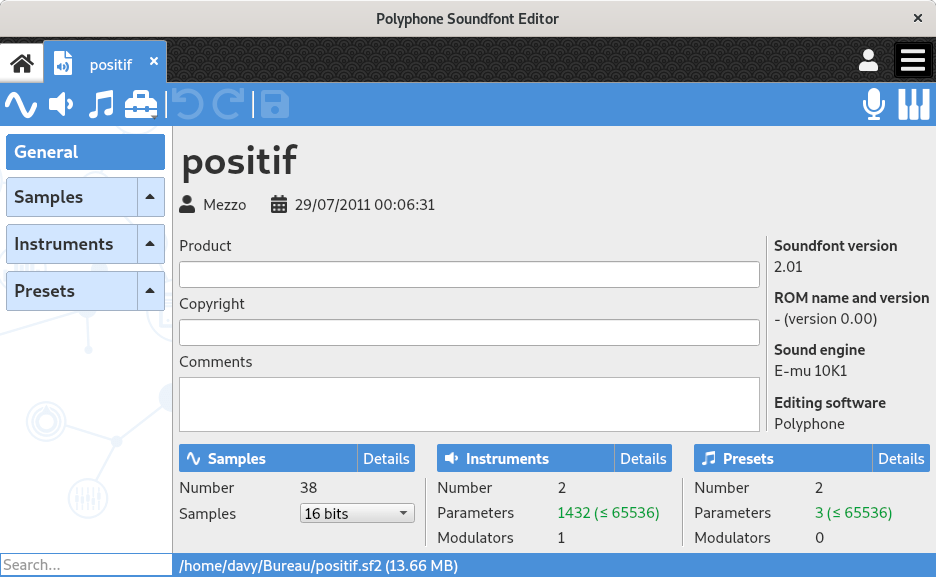
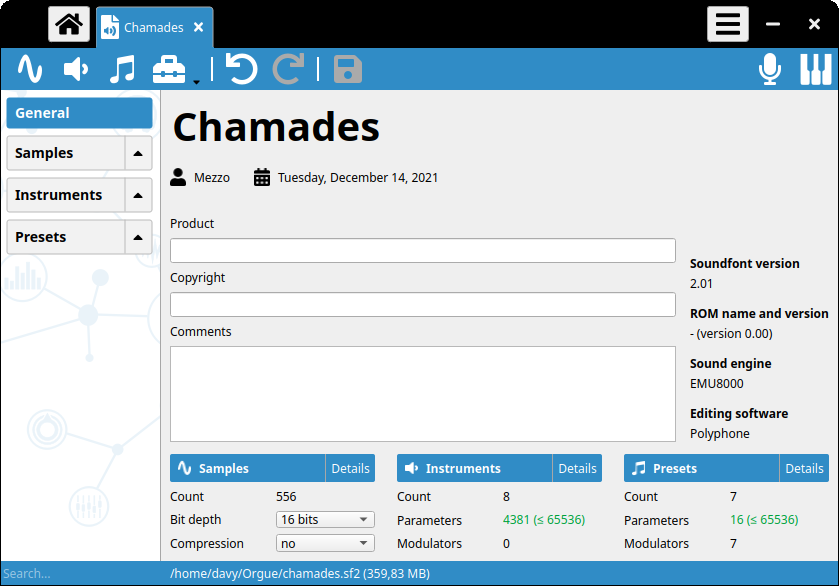
Compression

diff --git a/fr/manual/soundfont-editor/editing-pages/sample-editor.md b/fr/manual/soundfont-editor/editing-pages/sample-editor.md
@@ -61,18 +61,34 @@ Les couleurs du graphique sont éditables dans les [préférences](manual/settin
 ## Section «&nbsp;Information&nbsp;» {#doc_info}
 
 
-La section «&nbsp;Information&nbsp;» permet l'édition des informations suivantes&nbsp;:
+La section :guilabel:Informations` permet la visualisation - et dans la plupart des cas l'édition - des informations suivantes&nbsp;:
 
-* début et fin de la boucle,
-* note de base d'un échantillon et sa correction à appliquer pour que le son soit accordé dans le tempérament égal,
-* fréquence d'échantillonnage du son (une modification déclenchera un ré-échantillonnage),
-* type de son (non lié&nbsp;: mono, sinon gauche, droite ou lié),
-* l'échantillon lié si l'échantillon est stéréo.
+Taille de l'échantillon
+: Le nombre de valeurs et la correspondance en secondes sont affichés.
 
-Par ailleurs, la taille de l'échantillon en nombre de valeurs et en secondes est affiché.
+Boucle
+: Le début et la fin de la boucle peuvent être modifiés ici.
+  Un bouton édite les positions de début et de fin de manière à ce que la boucle représente l'échantillon entier.
 
-Un bouton édite les positions de début et de fin de la boucle de manière à ce que la boucle représente l'échantillon entier.
-Un autre bouton édite la note de base et la correction de sorte que les valeurs concordent avec l'estimation de la [fréquence](#doc_freq).
+Accordage
+: Possibilité d'ajuster la note de base d'un échantillon et sa correction en centièmes de demi-ton pour que le son soit accordé dans le tempérament égal.
+  Un bouton édite la note de base et la correction de sorte que les valeurs concordent avec l'estimation de la [fréquence](#doc_freq).
+
+Fréquence d'échantillonnage du son
+: Chaque modification déclenchera un ré-échantillonnage de manière à ce que la hauteur du son ne soit pas altérée.
+
+Type de son
+: Choix du type parmi :guilabel:`mono`, :guilabel:`gauche`, :guilabel:`droite` ou :guilabel:`lié`.
+  Si le type est :guilabel:`gauche`, :guilabel:`droite` ou :guilabel:`lié`, il est possible d'annuler le stéréo en choisissant :guilabel:`mono`.
+  Lorsque :guilabel:`mono` est sélectionné, revenir à un état stéréo se fera en sélectionnant un échantillon lié.
+  Si la compression est possible ([format sf3](manual/annexes/the-different-soundfont-formats.md#doc_sf3)), un bouton de compression est affiché pour tous les échantillons non compressés. Lors d'une compression, le choix de la qualité de la compression est demandée dans un dialogue.
+  **Note&nbsp;:** la décompression s'effectue automatiquement lors d'une édition de l'échantillon (application d'un filtre, coupure, amplification, etc.).
+
+![Choix de la qualité de compression](images/sample_compress_dialog.png "Choix de la qualité de compression")
+
+: Échantillon lié
+  Sélection de l'échantillon à lier pour rendre le son stéréo.
+  Si un échantillon est sélectionné, leur type passera à :guilabel:`lié` (ce type pourra ensuite être changé en :guilabel:`gauche` ou :guilabel:`droite`).
 
 Chaque modification d'un échantillon stéréo peut être répercutée sur l'échantillon lié si l'option :guilabel:`Édition stéréo` est cochée dans les [préférences](manual/settings.md#doc_general).
 Grâce à une sélection multiple dans l'[arborescence](manual/soundfont-editor/tree.md), plusieurs échantillons peuvent être édités simultanément.

diff --git a/en/manual/soundfont-editor/editing-pages/sample-editor.md b/en/manual/soundfont-editor/editing-pages/sample-editor.md
@@ -61,18 +61,34 @@ Graph colors are editable in the software [preferences](manual/settings.md#doc_i
 ## Section “Information” {#doc_info}
 
 
-The section “Information” allows the editing of the following information:
+The :guilabel:`Information` section allows viewing - and in most cases editing - the following information:
 
-* start and end of the loop,
-* root key of the sample and its correction to be applied for the sound to be tuned in the equal temperament,
-* sound sample rate (a change will cause re-sampling),
-* sound type (not linked: mono, otherwise left, right or linked),
-* the linked sample if the sample is stereo.
+Sample size
+: The number of values and the corresponding duration in seconds are displayed.
 
-In addition, the sample size in samples (number of values) and seconds is shown.
+Loop
+: The loop start and end points can be modified here.
+  A button edits the start and end positions so that the loop spans the entire sample.
 
-A button edits the start and end of the loop so that the loop is the entire sample.
-Another button edits the root key and the correction so that they match with the evaluation of the [frequency](#doc_freq).
+Tuning
+: Ability to adjust the root note of a sample and its correction in cents so that the sound is tuned to equal temperament.
+  A button edits the root note and correction so that the values match the estimated [frequency](#doc_freq).
+
+Sample rate
+: Any modification will trigger a resampling so that the pitch of the sound is not altered.
+
+Sound type
+: Select the type among :guilabel:`mono`, :guilabel:`left`, :guilabel:`right` or :guilabel:`linked`.
+  If the type is :guilabel:`left`, :guilabel:`right` or :guilabel:`linked`, it is possible to cancel the stereo by selecting :guilabel:`mono`.
+  When :guilabel:`mono` is selected, reverting to a stereo state will be done by selecting a linked sample.
+  If compression is possible ([sf3 format](manual/annexes/the-different-soundfont-formats.md#doc_sf3)), a compression button is displayed for all uncompressed samples. When compressing, the choice of compression quality is requested in a dialog.
+  **Note:** decompression is performed automatically when editing the sample (applying a filter, trimming, amplifying, etc.).
+
+![Compression quality selection](images/sample_compress_dialog.png "Compression quality selection")
+
+: Linked sample
+  Selection of the sample to link to make the sound stereo.
+  If a sample is selected, their type will switch to :guilabel:`linked` (this type can then be changed to :guilabel:`left` or :guilabel:`right`).
 
 Any change on a stereo sample may be applied on the linked sample if the option :guilabel:`Stereo editing` is ticked in the [preferences](manual/settings.md#doc_general).
 Via a multiple selection in the [tree](manual/soundfont-editor/tree.md), several samples may be edited simultaneously.

diff --git a/fr/manual/annexes/the-different-soundfont-formats.md b/fr/manual/annexes/the-different-soundfont-formats.md
@@ -32,10 +32,10 @@ Les spécifications sf2 sont disponibles [ici](files/sf_specifications_v2.01.pdf
 ## Banques de sons sf3 {#doc_sf3}
 
 
-Le format sf3, développé par <a href="https://musescore.org/" target="_blank">MuseScore</a>, est similaire en tout point au format sf2 sauf pour les [échantillons](manual/soundfont-editor/editing-pages/sample-editor.md) qui sont stockés dans le format OGG (version open-source du format MP3) au lieu d'être stockés en données brutes.
+Le format sf3, développé par <a href="https://musescore.org/" target="_blank">MuseScore</a>, est similaire en tout point au format sf2 sauf pour les [échantillons](manual/soundfont-editor/editing-pages/sample-editor.md) qui peuvent être stockés dans le format OGG (version open-source du format MP3) au lieu d'être stockés en données brutes.
 La conséquence est que le format sf3 est environ 10 fois plus léger que le format sf2 pour une qualité comparable.
 
-Une banque de son exportée dans ce format n'a pas pour but d'être ré-éditée ultérieurement à cause des compressions successives qui pourraient induire un abaissement de la qualité du son.
+Les échantillons compressés dans une banque de son exportée dans ce format n'ont pas pour but d'être ré-édités ultérieurement à cause des compressions successives qui pourraient induire un abaissement de la qualité du son.
 Ce format doit être considéré comme un produit final et est très intéressant pour les utilisateurs finaux des banques de sons car&nbsp;:
 
 * les téléchargements sont plus rapides sur internet,

diff --git a/en/manual/annexes/the-different-soundfont-formats.md b/en/manual/annexes/the-different-soundfont-formats.md
@@ -32,10 +32,10 @@ The sf2 specifications are available [here](files/sf_specifications_v2.01.pdf) f
 ## Sf3 soundfonts {#doc_sf3}
 
 
-The sf3 format, developed by <a href="https://musescore.org/" target="_blank">MuseScore</a>, is similar in all respects to the sf2 format except that the [samples](manual/soundfont-editor/editing-pages/sample-editor.md) are stored in the OGG format (like the MP3 format but open source) instead of being stored as raw data.
+The sf3 format, developed by <a href="https://musescore.org/" target="_blank">MuseScore</a>, is similar in all respects to the sf2 format except that the [samples](manual/soundfont-editor/editing-pages/sample-editor.md) can be stored in the OGG format (like the MP3 format but open-source) instead of being stored as raw data.
 The consequence is that the sf3 format is about 10 times lighter than the sf2 format for a comparable quality.
 
-A soundfont exported in this format is not intended to be edited later because successive compressions would result in a lower sound quality.
+The compressed samples in a soundfont exported in this format are not intended to be edited later because successive compressions would result in a lower sound quality.
 This format should be seen as a final product and is very interesting for all end users of soundfonts in that:
 
 * downloads are made easier on internet,

diff --git a/fr/manual/soundfont-editor/editing-pages/editing-of-the-general-information.md b/fr/manual/soundfont-editor/editing-pages/editing-of-the-general-information.md
@@ -32,9 +32,14 @@ Copyright
 Commentaires
 : Pour ajouter des informations non incluses dans les catégories précédentes.
 
-Type d'échantillons
-: Indique si les échantillons sont stockés avec une précision de 16 bits ou 24 bits.
+Profondeur de bits
+: Indique si les échantillons sont stockés avec une précision de 16 bits ou 24 bits (dans quel cas la compression n'est plus autorisée).
   Les échantillons 24 bits peuvent ne pas être supportés par tous les synthétiseurs.
+
+Compression
+: Rend possible la compression des échantillons (dans quel cas la précision est réglée à 16 bits). Si cette option est activée, un bouton de compression apparaitra dans l'éditeur des [échantillons](manual/soundfont-editor/editing-pages/sample-editor.md).
+  La compression est une fonctionnalité apportée par le [format sf3](manual/annexes/the-different-soundfont-formats.md#doc_sf3) et peut ne pas être supportée par tous les synthétiseurs.
+  L'activation ou la désactivation de cette option définira le format lors de la sauvegarde et Polyphone proposera un changement d'extension .sf2 / .sf3 si nécessaire.
 
 
 ## Informations générales {#doc_info}

diff --git a/en/manual/soundfont-editor/editing-pages/editing-of-the-general-information.md b/en/manual/soundfont-editor/editing-pages/editing-of-the-general-information.md
@@ -32,9 +32,14 @@ Copyright
 Comments
 : Information not included in any of the previous categories.
 
-Kind of samples
-: Indicates whether the samples are stored with a 16-bit or 24-bit resolution.
+Bit depth
+: Indicates whether the samples are stored with a 16-bit or 24-bit resolution (in which case the compression is not allowed).
   Please note that 24-bit samples may not be supported in some synthesizers.
+
+Compression
+: Enables the sample compression (in which case the bit depth is set to 16 bits). If this option is enabled, a compress button will be displayed in the [sample editor](manual/soundfont-editor/editing-pages/sample-editor.md).
+  The compression is a feature provided by the [sf3 format](manual/annexes/the-different-soundfont-formats.md#doc_sf3) and might not be supported by all synthesizers.
+  Enabling or disabling this option will determine the file format when saving, and Polyphone will change the file extension .sf2 / .sf3 if necessary.
 
 
 ## General information {#doc_info}

diff --git a/fr/manual/soundfont-editor/configuration-summaries.md b/fr/manual/soundfont-editor/configuration-summaries.md
@@ -20,6 +20,7 @@ Pour chaque échantillon, ce résumé permet par exemple d'effectuer les vérifi
 * L'accordage a-t-il été effectué&nbsp;?
 * Est-il proprement lié en stéréo&nbsp;?
 * Le taux d'échantillonnage est-il suffisant pour une bonne qualité audio&nbsp;?
+* A-t-il été compressé&nbsp;?
 
 
 ## Instruments {#doc_instrument}

diff --git a/en/manual/soundfont-editor/configuration-summaries.md b/en/manual/soundfont-editor/configuration-summaries.md
@@ -20,6 +20,7 @@ For each sample, this page allows for example to perform the following checks:
 * Has the tuning been done?
 * Is it properly linked in stereo?
 * Is the sampling rate high enough for a good audio quality?
+* Has it been compressed?
 
 
 ## Instruments {#doc_instrument}
